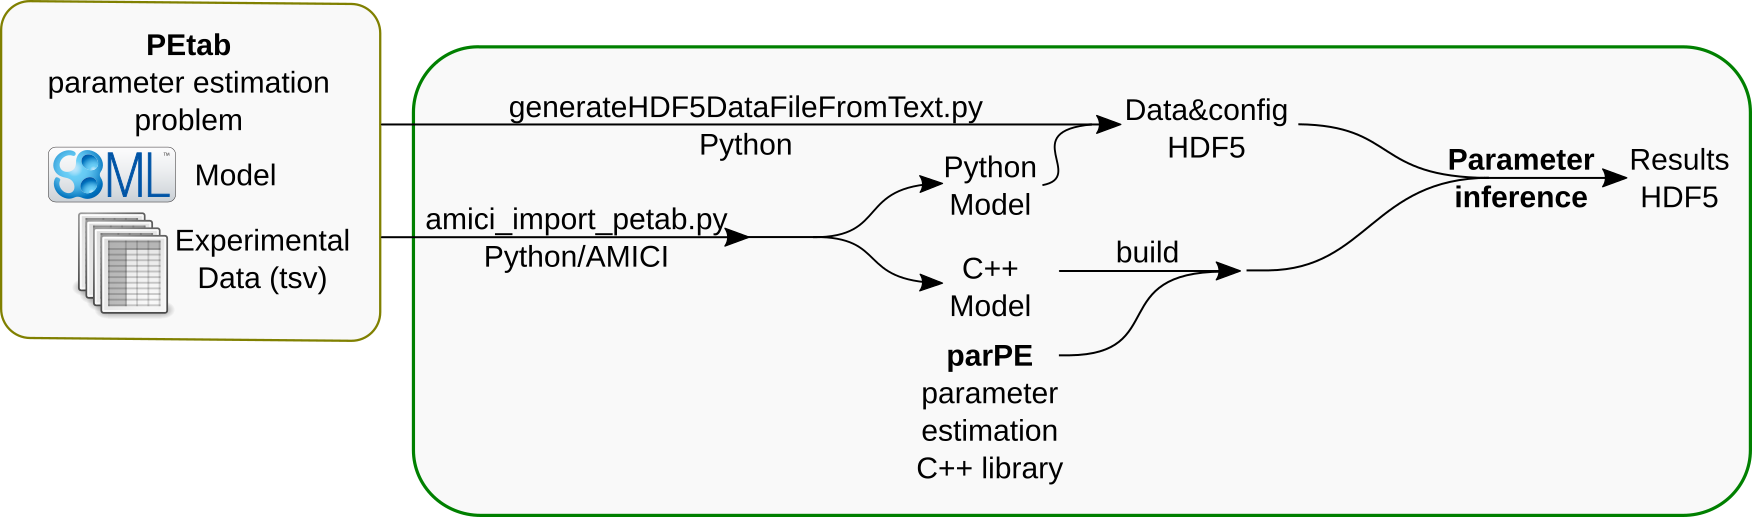
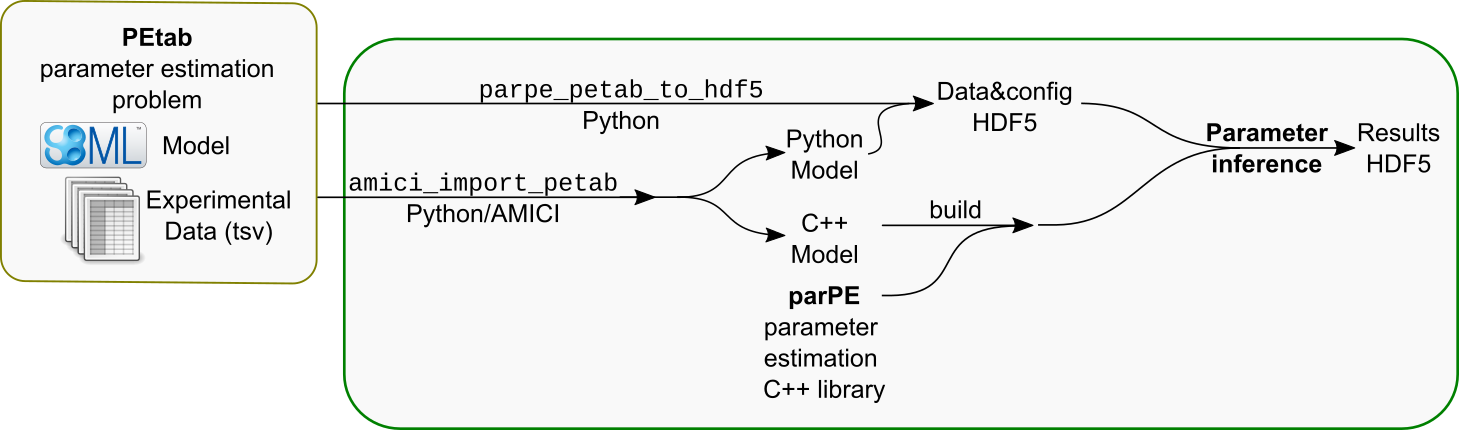
Update documentation (#323)
* Update PEtab workflow documentation

* Various updates / fixes

* restructure

* update `make clean`

* Example notebooks to RTD

diff --git a/doc/conf.py b/doc/conf.py
@@ -52,6 +52,7 @@ extensions = [
     'sphinx.ext.viewcode',
     'sphinx_autodoc_typehints',
     # 'recommonmark',
+    'nbsphinx',
     'IPython.sphinxext.ipython_console_highlighting',
     'm2r2',
 ]
@@ -62,7 +63,11 @@ templates_path = ['_templates']
 # List of patterns, relative to source directory, that match files and
 # directories to ignore when looking for source files.
 # This pattern also affects html_static_path and html_extra_path.
-exclude_patterns = ['logo/LICENSE.md', 'README.md']
+exclude_patterns = [
+    'logo/LICENSE.md',
+    'README.md',
+    '**/collapsible-lists/**',
+]
 source_suffix = ['.rst', '.md']
 
 # -- Options for HTML output -------------------------------------------------

diff --git a/doc/petab_model_import.md b/doc/petab_model_import.md
@@ -1,23 +1,23 @@
-# Parameter estimation for *PEtab* models using *parPE*
+# Parameter estimation for *PEtab/SBML* models using *parPE*
 
 
 ## Introduction
 
-This document describes how to setup and use parPE to estimate parameters for
-a model in the PEtab format. This is currently the most streamlined use case
-parPE.
+This document describes how to set up and use parPE to estimate parameters for
+a model in the [PEtab](https://github.com/petab-dev/PEtab) format. This is
+currently the most streamlined use case parPE.
 
-[PEtab](https://github.com/ICB-DCM/PEtab) is a convention to specify systems
+[PEtab](https://github.com/petab-dev/PEtab) is a convention to specify systems
 biology parameter estimation problems in a machine-readable way. It is based
 on [SBML](http://sbml.org/) models and a set of tab-separated values files.
-If you already have an SBML model, it should be rather easy to generate a set
-of PEtab files. Further information and a detailed format description are
-provided in the PEtab repository.
+Further information and a detailed format description are provided in the PEtab
+repository.
 
-For testing purposes, you can also use the example shipped with PEtab
+For testing, there is also an example shipped with parPE
 [../examples/parpeamici/steadystate/](../examples/parpeamici/steadystate/)
-or a model from the collection of
-[Benchmark Problems for Dynamic Modeling of Intracellular Processes](https://github.com/LoosC/Benchmark-Models/).
+and there is a collection of
+[Benchmark Problems for Dynamic Modeling of Intracellular Processes](https://github.com/Benchmarking-Initiative/Benchmark-Models-PEtab) with a variety of example
+problems.
 
 
 ## Workflow overview
@@ -31,7 +31,7 @@ The principal steps are:
 
 1. Building parPE as described in the [documentation](../README.md)
 
-2. Generating model C++ code and Python module (using `amici_import_petab.py`
+2. Generating model C++ code and Python module (using `amici_import_petab`
    from [AMICI](https://github.com/ICB-DCM/AMICI/))
 
 3. Setting up a project for building parameter estimation (and other)
@@ -40,7 +40,7 @@ The principal steps are:
 
 4. Generating an HDF5 input file for parPE with data and options for parameter
    estimation based on the PEtab problem definition (using
-   [../misc/generateHDF5DataFileFromText.py](../misc/generateHDF5DataFileFromText.py))
+   `parpe_petab_to_hdf5` from the parPE Python package.
 
 5. Running the desired optimization and further analysis
 
@@ -50,7 +50,6 @@ present the simplest use case.
 NOTE: This workflow is to be simplified and converted to a configurable
 [Snakemake-based](https://snakemake.readthedocs.io/en/stable/) workflow. A
 scaffold is provided in [../snakemake/](../snakemake/).
-As for the overall project: contributions are welcome.
 
 
 ## Notation
@@ -62,17 +61,8 @@ required values.
 
 We will refer to the following artifacts:
 
-- `${PETAB_SBML_MODEL}`: The PEtab-coherent SBML model for which for perform
-  parameter estimation
-
-- `${PETAB_CONDITION_FILE}`: The PEtab TSV file defining simulation/experimental
-  conditions
-
-- `${PETAB_MEASUREMENT_FILE}`: The PEtab TSV file with measurements / training
-  data
-
-- `${PETAB_PARAMETER_FILE}`: The PEtab TSV file listing optimization parameters,
-  bounds, etc.
+- `${PETAB_YAML_FILE}`: The PEtab YAML file (references all PEtab files
+  belonging to the given parameter estimation problem)
 
 - `${AMICI_MODEL_DIR}`: Output directory to be created where AMICI model code
   will be written to
@@ -98,16 +88,15 @@ Build parPE as described in the [documentation](../README.md).
 ## Model processing
 
 Although generally any kind of model can be used with parPE after, we will only
-describe the simplest case of using [AMICI](https://github.com/ICB-DCM/AMICI/)
+describe the simplest case of using [AMICI](https://github.com/AMICI-dev/AMICI/)
 models.
-We assume that there already a set of PEtab files with the problem definition.
+We assume that there is already a set of PEtab files with the problem definition.
 (This is not strictly necessary for using parPE, but will require significant
 additional effort).
 
-We will use the `amici_import_petab.py` helper script for generating AMICI C++
-files and Python package for the respective model. After installing AMICI, this
-script should be added to your PATH automatically. If not, adapt the paths in
-this example accordingly.
+We will use `amici_import_petab` for generating AMICI C++ model files and
+Python package for the respective model. After installing AMICI, this
+script should in your `$PATH` automatically.
 
 *NOTE*: Use the AMICI version shipped with parPE (`deps/AMICI`). Do not try to
 mix different versions of AMICI-generated models and AMICI base files. This
@@ -116,18 +105,16 @@ will likely lead to crashes and/or undefined behaviour.
 Run:
 
 ```shell
-amici_import_petab.py -o ${AMICI_MODEL_DIR} \
-                      -n ${MODEL_NAME} \
-                      -s ${PETAB_SBML_MODEL} \
-                      -m ${PETAB_MEASUREMENT_FILE} \
-                      -c ${PETAB_CONDITION_FILE} \
-                      -p ${PETAB_PARAMETER_FILE}
+amici_import_petab -v \
+  -o ${AMICI_MODEL_DIR} \
+  -n ${MODEL_NAME} \
+  -y ${PETAB_YAML_FILE}
 ```
 
 Which will create `${AMICI_MODEL_DIR}` containing model C++ files and a Python
 package for the model.
 
-Run `amici_import_petab.py -h` for further command line options.
+Run `amici_import_petab -h` for further command line options.
 
 
 ## Building parameter estimation executable
@@ -151,27 +138,24 @@ To simplify notation:
 export ESTIMATE=${PARPE_MODEL_DIR}/build/estimate${MODEL_NAME}
 ```
 
-## Generating in HDF5 input file for parPE parameter optimization
+## Generating an HDF5 input file for parPE parameter optimization
 
-The default workflow requires a training data and optimization options to be
-provided in an HDF5 file. Based on the PEtab problem definition we can simply
-create this using
-[../misc/generateHDF5DataFileFromText.py](../misc/generateHDF5DataFileFromText.py):
+The default workflow requires training data and optimization options to be
+provided in an HDF5 file. Based on the PEtab problem definition, we can simply
+create this using the `parpe_petab_to_hdf5` script from the parPE Python
+package:
 
 ```shell
-    ${PARPE_SOURCE_ROOT}/misc/generateHDF5DataFileFromText.py \
-        -n ${MODEL_NAME} \
-        -s ${PETAB_SBML_MODEL} \
-        -m ${PETAB_MEASUREMENT_FILE} \
-        -c ${PETAB_CONDITION_FILE} \
-        -p ${PETAB_PARAMETER_FILE} \
-        -d ${AMICI_MODEL_DIR} \
-        -o ${H5_PE_INPUT}
+parpe_petab_to_hdf5 \
+    -n ${MODEL_NAME} \
+    -y ${PETAB_YAML_FILE} \
+    -d ${AMICI_MODEL_DIR} \
+    -o ${H5_PE_INPUT}
 ```
 
 This should create `${H5_PE_INPUT}`. The file format is described in
 [hdf5.md](hdf5.md) This file will contain some default
-settings. Those can be adapted using hdfview, your programming language of
+settings. Those can be adapted using [hdfview](https://www.hdfgroup.org/downloads/hdfview/), your programming language of
 choice, or from the command line using
 [../misc/optimizationOptions.py](../misc/optimizationOptions.py) (`-h` for
 usage information).
@@ -190,7 +174,7 @@ For running parameter estimation with default settings on a single node, run:
     ${ESTIMATE} -o test_output_dir/ ${H5_PE_INPUT}
 ```
 
-Note that, depending on your model and data, this might take a long time.
+Note that, depending on your model and data, this may take a long time.
 The results will be written to HDF5 files in `test_output_dir/`. The output
 format is described in [hdf5.md](hdf5.md).
 

diff --git a/doc/snakemake_workflow.md b/doc/snakemake_workflow.md
@@ -1,7 +1,7 @@
 # Using parPE with Snakemake
 
 *parPE* comes with some rudimentary 
-[Snakemake](https://snakemake.readthedocs.io/en/stable/) workflows.
+[Snakemake](https://snakemake.readthedocs.io/en/stable/) workflow.
 
 
 ## Parameter estimation
@@ -14,25 +14,26 @@ An example is shown in
 
 ### An example
 
-If parPE was build with examples, this workflow can be run after adapting
+If parPE was built with examples, this workflow can be run after adapting
 some paths in the example config file. `petab.root` needs to be adapted to
 reflect your parPE build directory, and probably you want to change the output
 directories as well. The documented schema for this configuration file is
 provided in `snakemake/config.schema.yaml`.
 
-After that you can run the full pipeline with:
+After that you can run the full workflow with:
 
-    cd snakemake
-    snakemake --configfile parpe_optimize_petab_steadystate.yaml -- postprocess
+```shell
+cd snakemake
+snakemake --configfile parpe_optimize_petab_steadystate.yaml -- postprocess
+```
 
-This generate C++ code of the model, build model specific binaries for
-parameter estimation, run parameters, and process the results.
-After successful completion, you should see a file `test.png` in your working
-directory showing the optimization trajectory (as well as other files, once
-this gets extended).
+This generates C++ code of the model, builds model specific binaries for
+parameter estimation, runs parameter estimation, and processes the results.
+After successful completion, you should see a file
+`results/figures/cost_trajectory.png` showing the optimizer trajectory.
 
 The different snakemake targets are explained in the Snakefile and can be
-accessed using `snakemake --list` from the directory in which the Snakefile
+accessed using `snakemake --list` from the directory in which the `Snakefile`
 is located.
 
 To use this workflow with a different PEtab problem, you should only need to

diff --git a/doc/optimizationApplication.md b/doc/optimizationApplication.md
@@ -1,4 +1,7 @@
-# Running parameter optimization for an AMICI model using parpe::OptimizationApplication
+# Running parameter optimization for an AMICI model using `parpe::OptimizationApplication`
+
+This document describes the output and options of parPE executables based on
+`parpe::OptimizationApplication`.
 
 **TODO** 
 
@@ -17,7 +20,7 @@ Run the created executable with the `-h`/`--help` argument.
  ^timestamp            ^loglvl ^rank/hostname ^optimizerProgress
 ```
 
-- Log level: one of debug (DBG), information (INF), warning (WRN), error (ERR), critical (CRI)
+- Log level: one of debug ('DBG'), information ('INF'), warning ('WRN'), error ('ERR'), critical ('CRI')
 - Rank: MPI rank. Master is 0. For non-MPI runs this is -1. 
 - Optimizer progress: Number after 'o' a running index of optimizer runs, number after 'i' is the current iteration
 - 'iter': current iteration
@@ -34,7 +37,7 @@ Run the created executable with the `-h`/`--help` argument.
 - *see above*
 - Optimizer progress: *see above* + Number after 'c' is the current condition index
 - messageID: internal use only
-- llh: Loglikelihood as provided by AMICI
+- llh: Log-likelihood as provided by AMICI
 - status: AMICI status
 - time: simulation wall-time
 - gradientFlag: '+' indicates simulation with gradient, '-' indicates simulation without gradient   

diff --git a/README.md b/README.md
@@ -48,7 +48,7 @@ described in [doc/petab_model_import.md](doc/petab_model_import.md).
 
 For full functionality, parPE requires the following libraries:
 
-* CMAKE (>=3.6)
+* CMAKE (>=3.10)
 * MPI ([OpenMPI](https://www.open-mpi.org/),
   [MPICH](https://www.mpich.org/), ...)
 * PTHREADS
@@ -60,7 +60,7 @@ For full functionality, parPE requires the following libraries:
 * [AMICI](https://github.com/ICB-DCM/AMICI) (included in this repository)
   (uses SuiteSparse, Sundials)
 * C++17 compiler
-* Python >= 3.6, including header files
+* Python >= 3.7, including header files
 
 On Debian-based systems, dependencies can be installed via:
 ```shell
@@ -97,7 +97,7 @@ Other sample build scripts are provided as `/build*.sh`.
 
 ## Recently tested compilers
 
-* GCC 8.3.0
+* GCC 10.2.0
 * Intel icpc (ICC) 17.0.6
 
 ## Docker

diff --git a/doc/examples.rst b/doc/examples.rst
@@ -1,0 +1,11 @@
+Examples
+========
+
+The following examples demonstrate some functionalities and usage patterns of parPE.
+
+.. toctree::
+   :maxdepth: 1
+
+   Model simulation, optimization, analysis <example_notebooks/parpeExampleSteadystateBasic>
+   Hierarchical optimization <example_notebooks/parpeExampleSteadystateHierarchical>
+   Mini-batch optimization <example_notebooks/parpeExampleSteadystateMinibatch>

diff --git a/doc/standaloneSimulator.md b/doc/standaloneSimulator.md
@@ -1,6 +1,5 @@
-# Running AMICI simulations for parameters from an optimization result file using main_simulator.cpp
+# Running AMICI simulations for parameters from an optimization result file using `main_simulator.cpp`
 
 **TODO** 
 
-For now see example notebook in amici/examples/steadystate
-
+For now see example notebook in `examples/parpeamici/steadystate/`

diff --git a/doc/usage.rst b/doc/usage.rst
@@ -5,9 +5,10 @@ Usage
    :maxdepth: 3
    :caption: Usage:
 
-   hdf5.md
-   optimizationApplication.md
-   parpe_with_charliecloud.md
+   examples
    petab_model_import.md
-   snakemake_workflow.md
+   optimizationApplication.md
    standaloneSimulator.md
+   parpe_with_charliecloud.md
+   snakemake_workflow.md
+   hdf5.md

diff --git a/doc/index.rst b/doc/index.rst
@@ -11,12 +11,12 @@ Welcome to parPE's documentation!
    :caption: Contents:
 
    About parPE <readme_link>
-   FAQ.md
-
    usage
 
    cpp_api/library_root
    Python package <python_modules>
+
+   FAQ.md
 
 Indices and tables
 ==================
